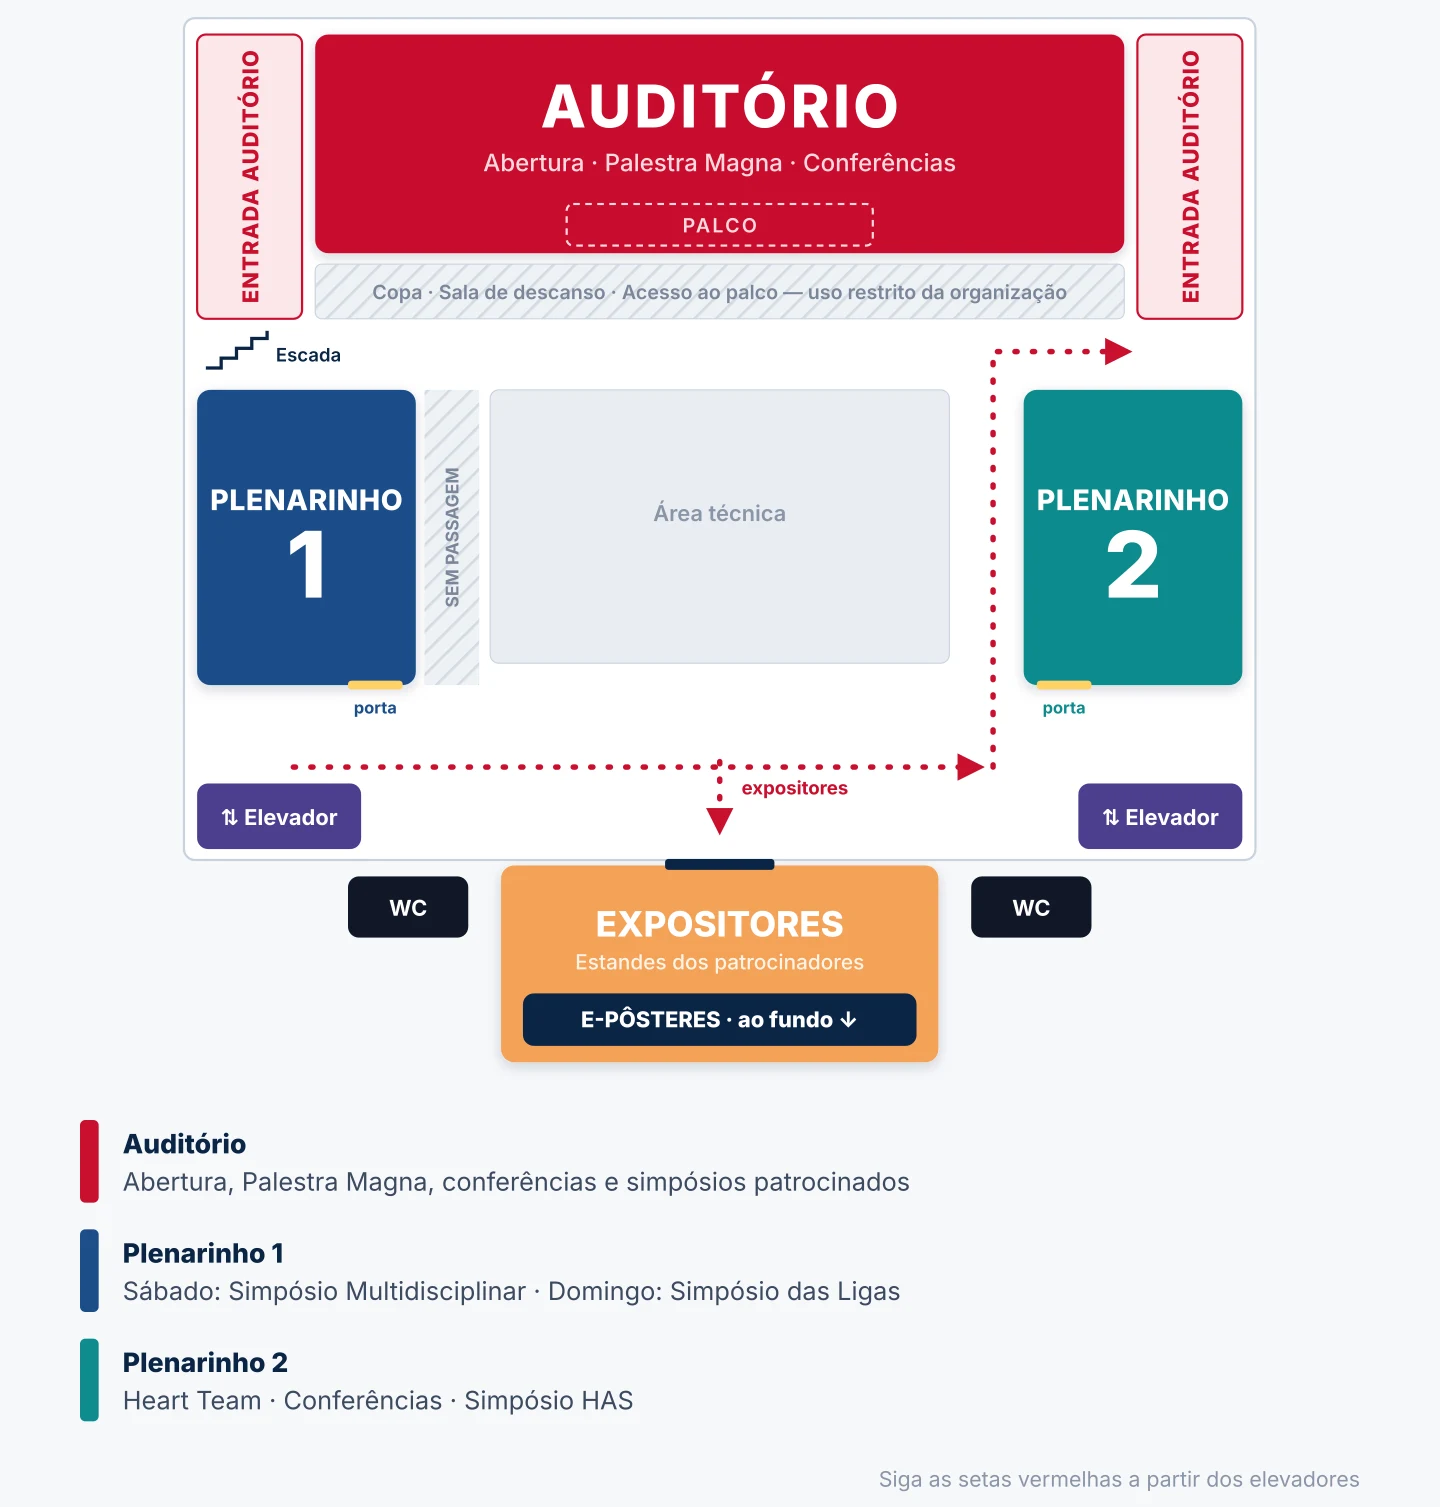
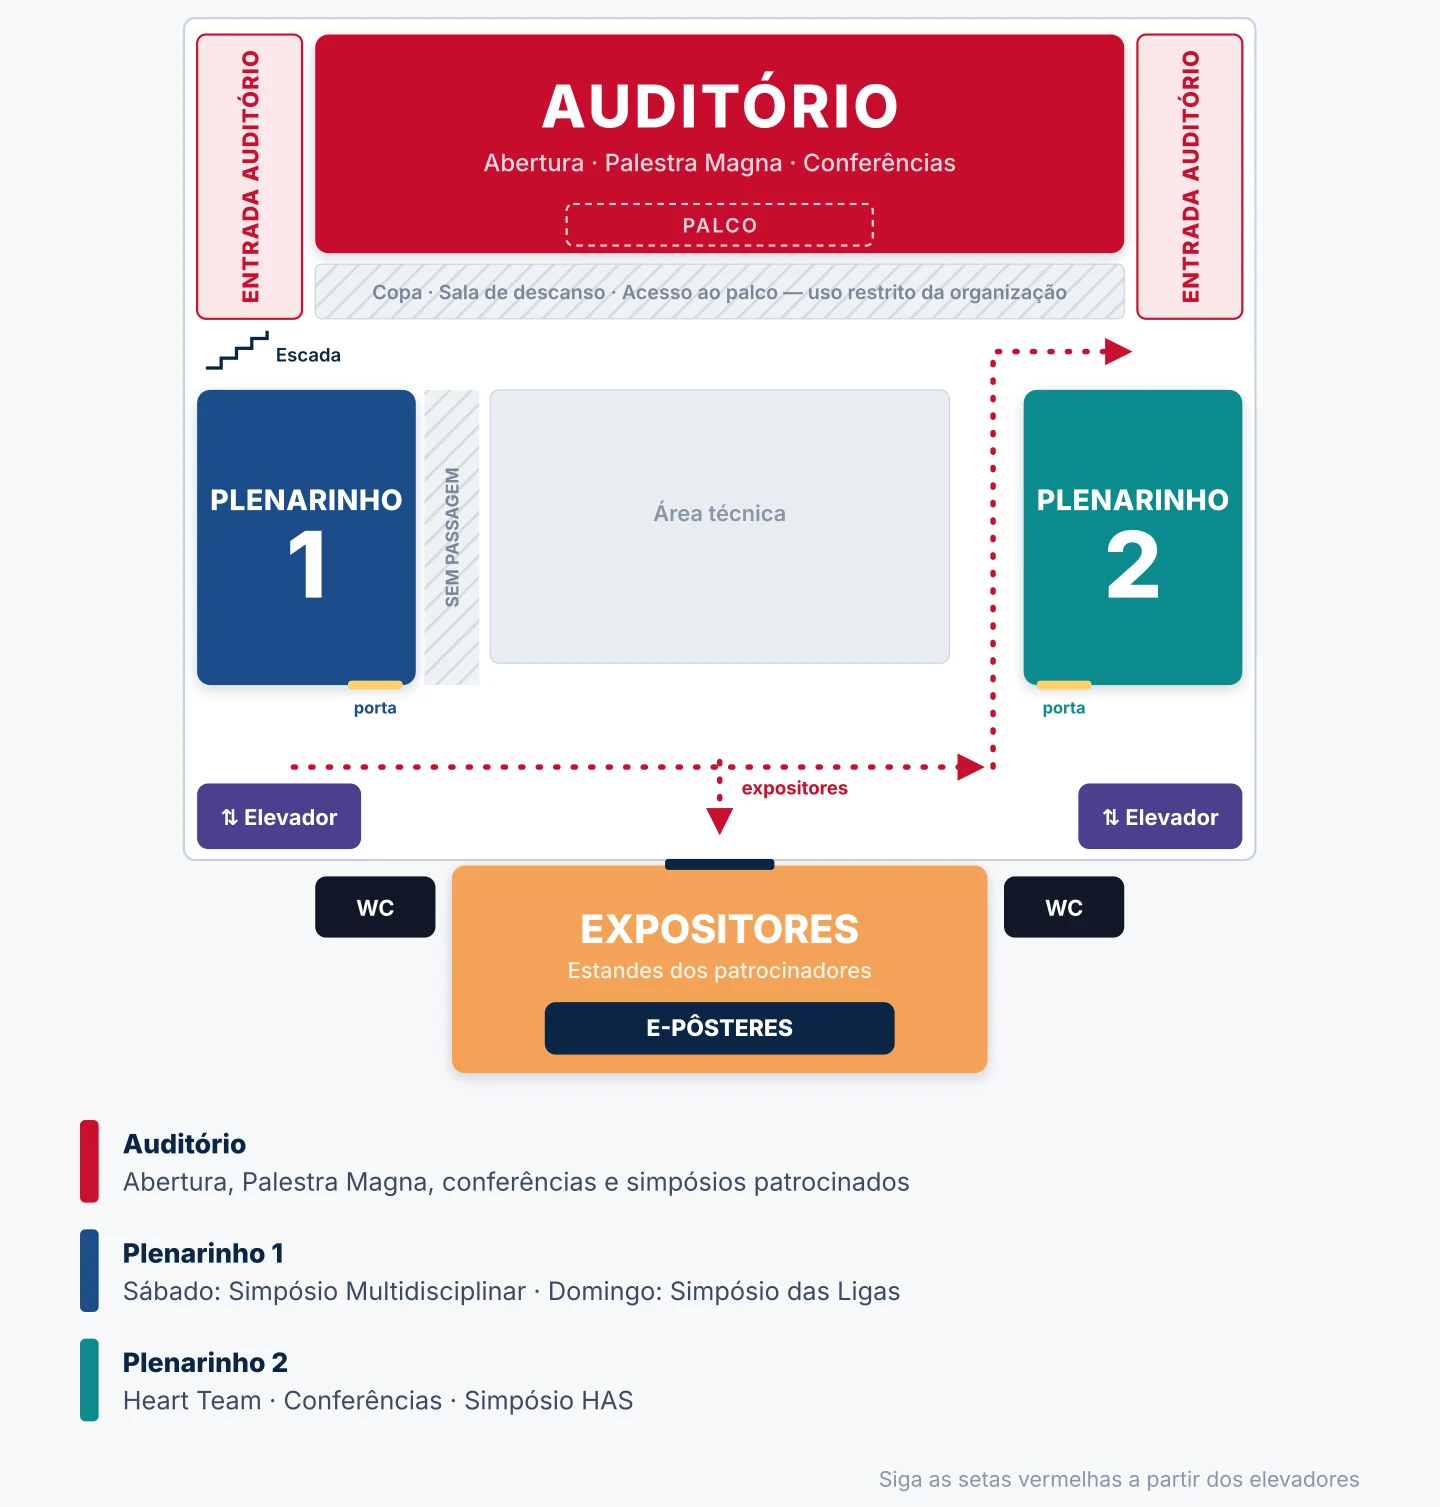
Como chegar: área de expositores maior e e-pôsteres sem 'ao fundo'
Claude-Session: https://claude.ai/code/session_0182YZMBjuu2gUD5tf6GjHNw

Changed region(s): [[0.2188, 0.5614, 0.7812, 0.7173]]

diff --git a/como-chegar/index.html b/como-chegar/index.html
@@ -114,16 +114,16 @@ footer{font-size:13.5px;color:var(--muted);text-align:center;padding-top:8px}
 
 <section class="step" id="salas">
   <h2><i>2</i> Mapa das salas · 2º andar</h2>
-  <p>Saindo do elevador, siga as setas: o corredor leva ao Plenarinho 2 e à entrada do Auditório. A área de expositores fica em frente, com os e-pôsteres ao fundo.</p>
+  <p>Saindo do elevador, siga as setas: o corredor leva ao Plenarinho 2 e à entrada do Auditório. A área de expositores, com os e-pôsteres, fica em frente.</p>
   <figure>
-    <a href="salas.webp" target="_blank" rel="noopener"><img src="salas.webp" alt="Mapa do 2º andar com Auditório, Plenarinho 1, Plenarinho 2, elevadores, banheiros e área de expositores com e-pôsteres ao fundo" width="1440" height="1507" loading="lazy"></a>
+    <a href="salas.webp" target="_blank" rel="noopener"><img src="salas.webp" alt="Mapa do 2º andar com Auditório, Plenarinho 1, Plenarinho 2, elevadores, banheiros e área de expositores com e-pôsteres" width="1440" height="1507" loading="lazy"></a>
     <figcaption>Toque na imagem para ampliar</figcaption>
   </figure>
   <ul class="rooms">
     <li style="--c:#c8102e"><b>Auditório</b><span>Abertura, Palestra Magna, conferências e simpósios patrocinados</span></li>
     <li style="--c:#1d4e89"><b>Plenarinho 1</b><span>Sábado: Simpósio Multidisciplinar · Domingo: Simpósio das Ligas</span></li>
     <li style="--c:#0f8b8d"><b>Plenarinho 2</b><span>Heart Team · Conferências · Simpósio HAS</span></li>
-    <li style="--c:#f4a259"><b>Expositores</b><span>Estandes dos patrocinadores · e-pôsteres ao fundo</span></li>
+    <li style="--c:#f4a259"><b>Expositores</b><span>Estandes dos patrocinadores · e-pôsteres</span></li>
   </ul>
 </section>
 
